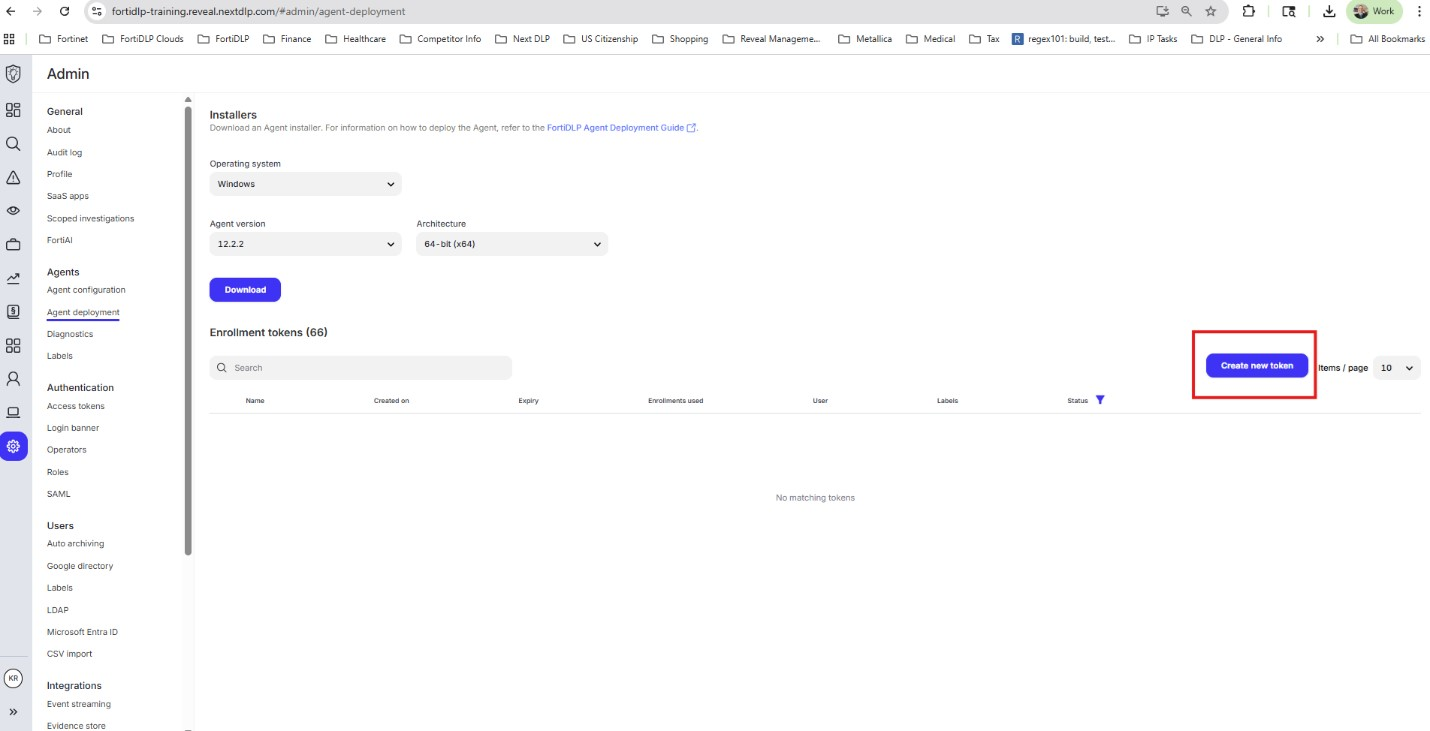
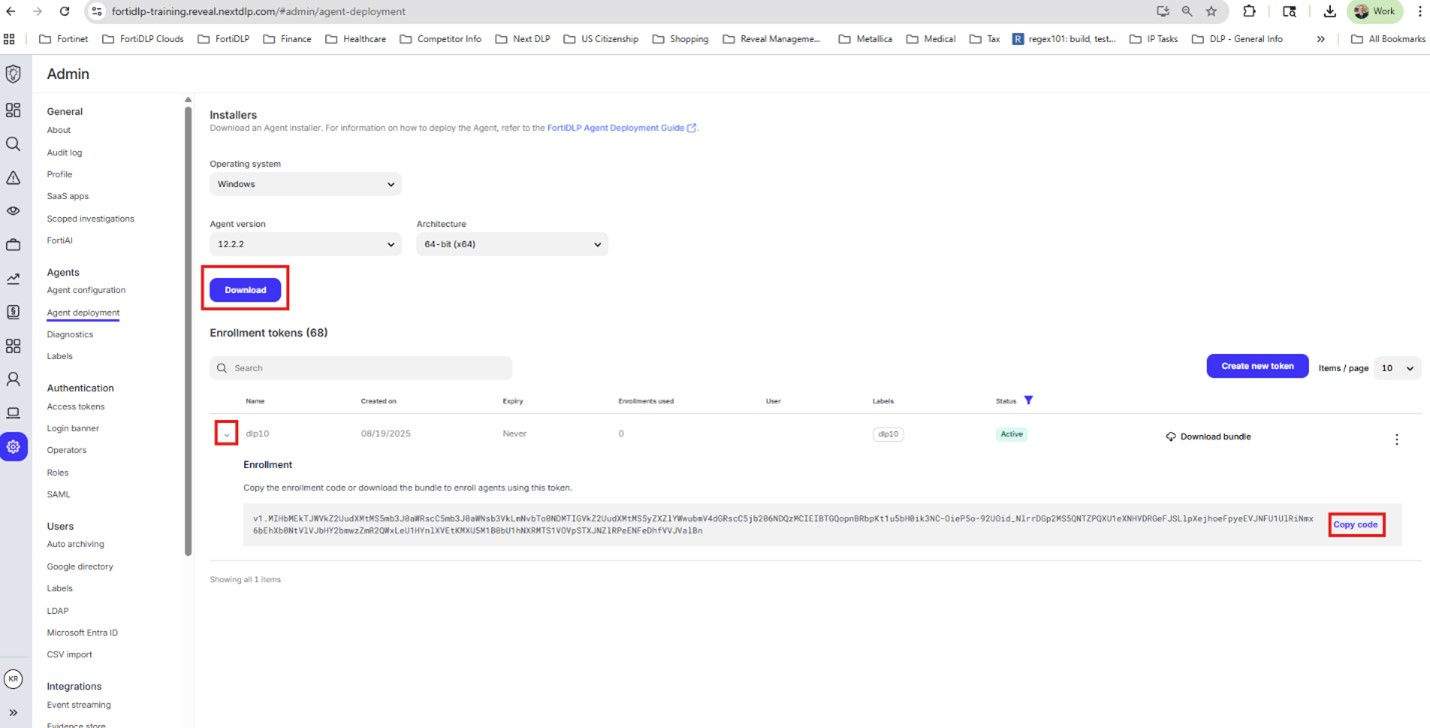
updated use case documentation

diff --git a/content/003LabUseCaseSolutions/003_use_case_1/index.md b/content/003LabUseCaseSolutions/003_use_case_1/index.md
@@ -4,17 +4,30 @@ linkTitle: "Use Case 1"
 weight: 1
 ---
 
-{{% notice %}} ### Create a custom label to use to apply a policy to your device only
+{{% notice %}} ### Create a custom label and apply it to your device. <br><br>Create the label in the format of first initial last name – ex. jsmith.
+
 {{% /notice %}}
 
 1. Click “Admin settings” in the left pane of the management console.
 
     {{< figure src="case1_1.png" alt="case1_1" >}}
 
-2. Click “Labels” and then “Create new custom label”
+2. Click “Labels” and then “Create new custom label.”
   
     {{< figure src="case1_2.png" alt="case1_2" >}}
 
-3. Enter your first initial last name in the “Name” text box (ex. John Smith will enter “jsmith”)
+3. Enter your first initial last name in the “Name” text box (ex. John Smith will enter “jsmith”).
 
     {{< figure src="case1_3.png" alt="case1_3" >}}
+
+4. Click "Nodes" in the left pane of the management console.
+
+    {{< figure src="case1_4.png" alt="case1_4" >}}
+
+5. Click your node name to open the node details page and click the edit pencil next to "Labels."
+
+    {{< figure src="case1_5.png" alt="case1_5" >}}
+
+6. Select the label you created earlier in this use case and click "Assign labels."
+
+    {{< figure src="case1_6.png" alt="case1_6" >}}

diff --git a/content/003LabUseCaseSolutions/003_use_case_3/index.md b/content/003LabUseCaseSolutions/003_use_case_3/index.md
@@ -40,3 +40,20 @@ weight: 3
 9. You should now see the newly created policy in the window
 
    {{< figure src="case3_6.png" alt="case3_6" >}}
+
+{{% notice tip%}}:bulb: Testing instructions:<br><br>
+Make sure policy group is published and that you have requested the new policy from the endpoint. To refresh the policy on the endpoint, navigate to:<br>
+
+c:\program files\jazz networks\agent<br>
+
+run the following command:<br>
+
+agent config refresh<br>
+
+Once you have refreshed the config, follow the below instructions to test the policy.
+
+1. Navigate to "dlptest.ai"
+2. Click CSV under "File Download" to download a test file to the "Downloads" folder
+3. Drag and drop the file downloaded in step two into the box under "File Upload"
+4. File upload should be blocked and a prompt should appear on the screen.
+{{% /notice %}}
